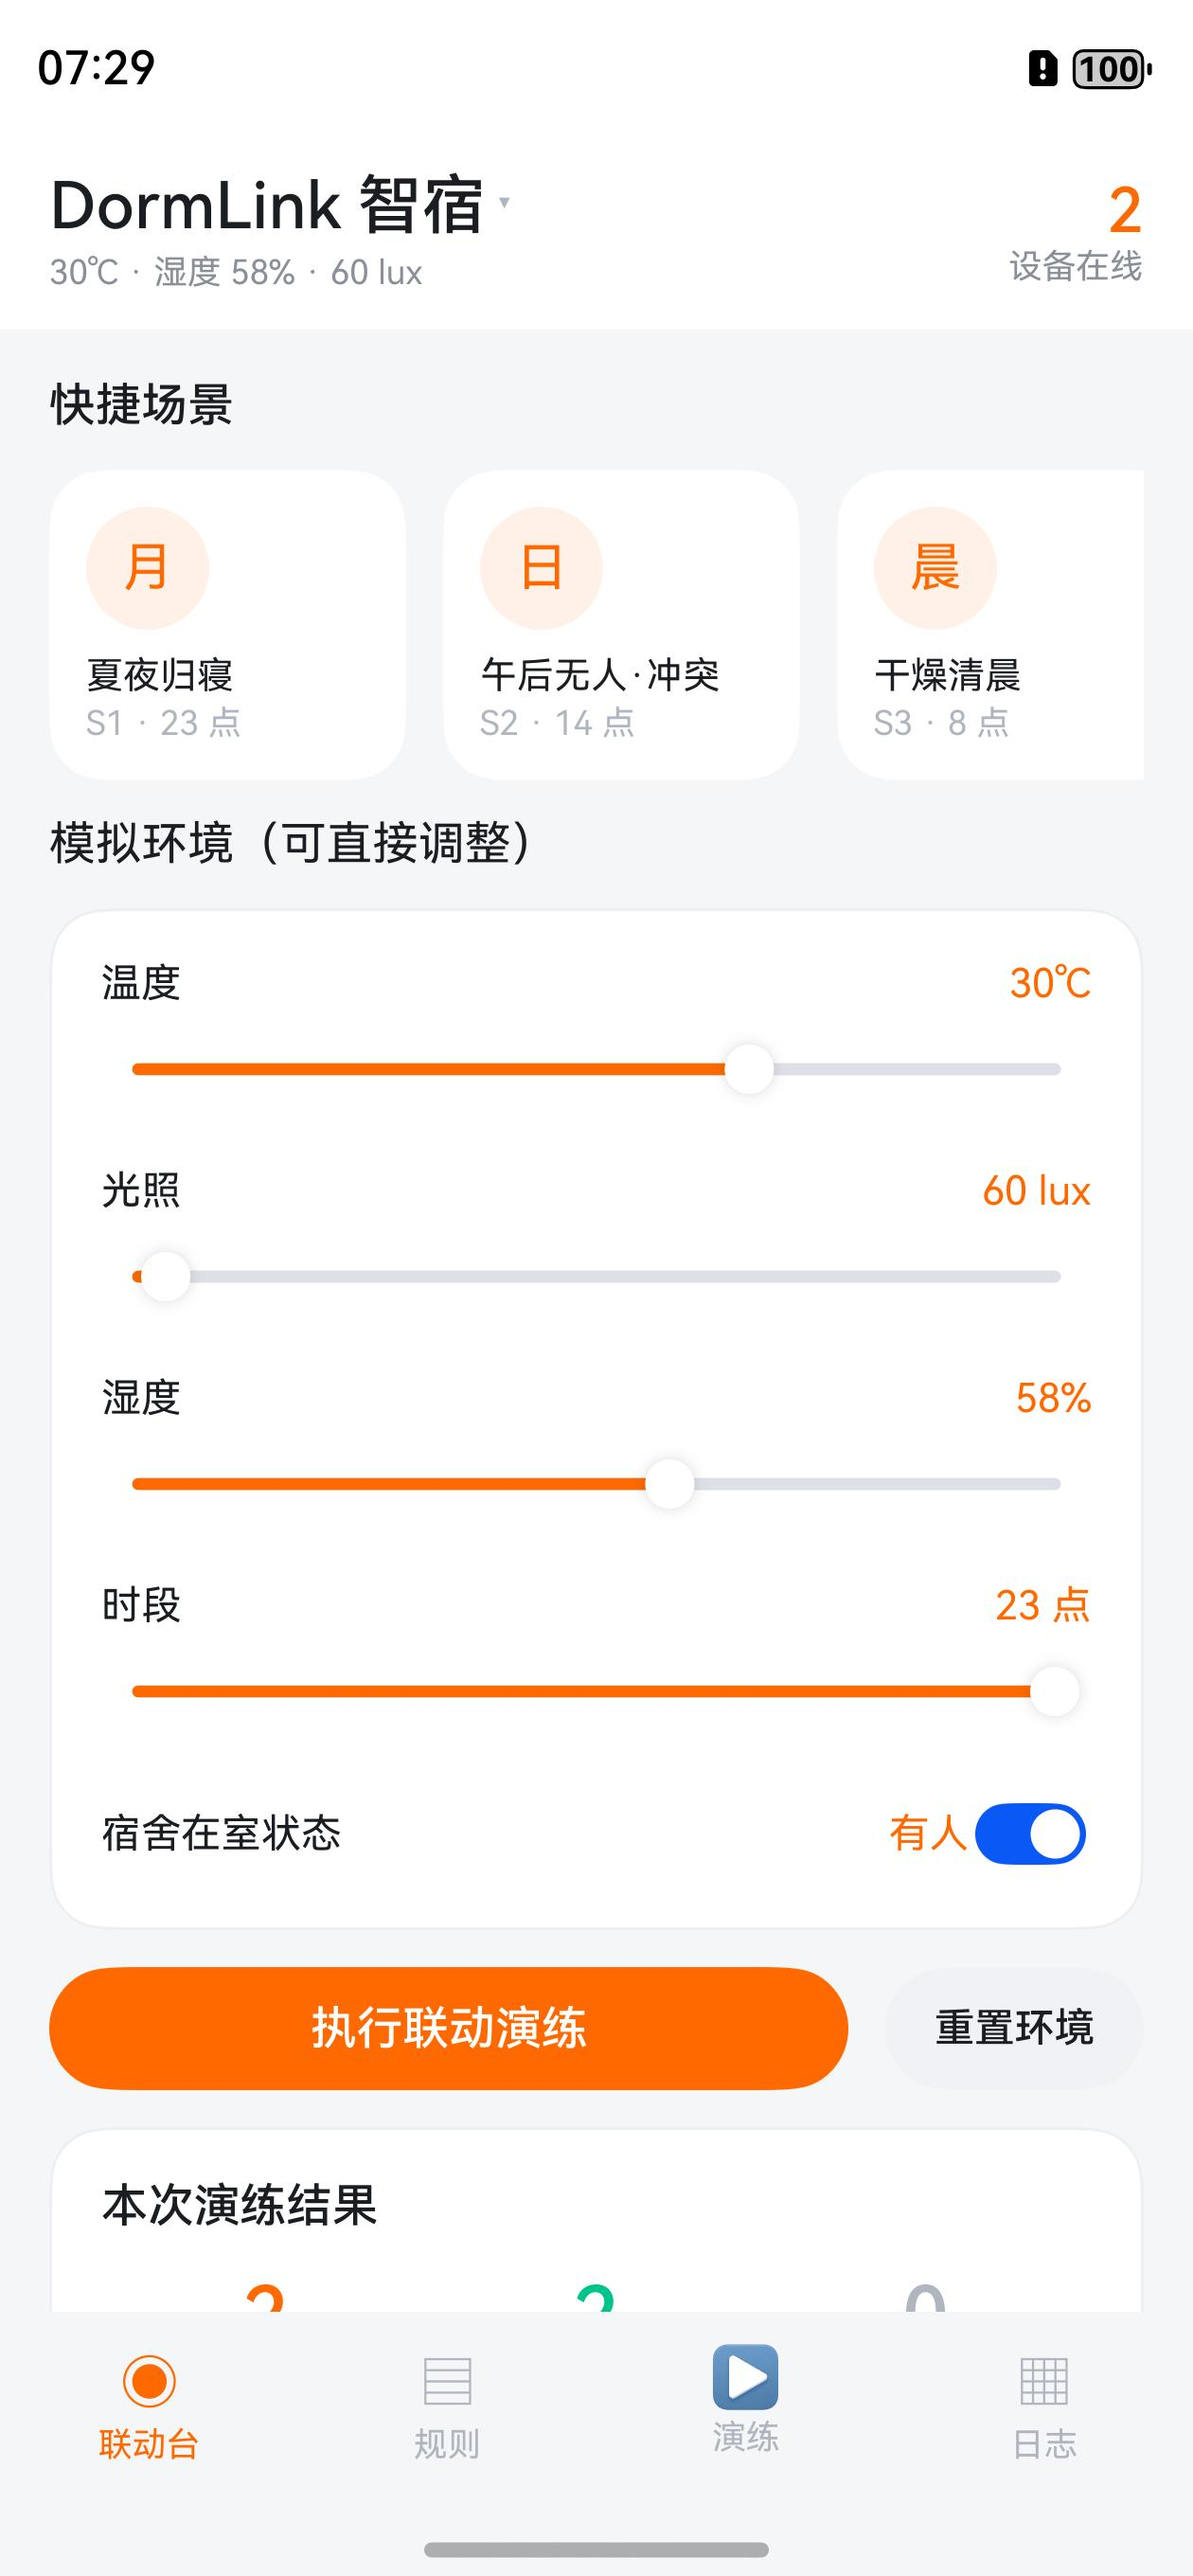
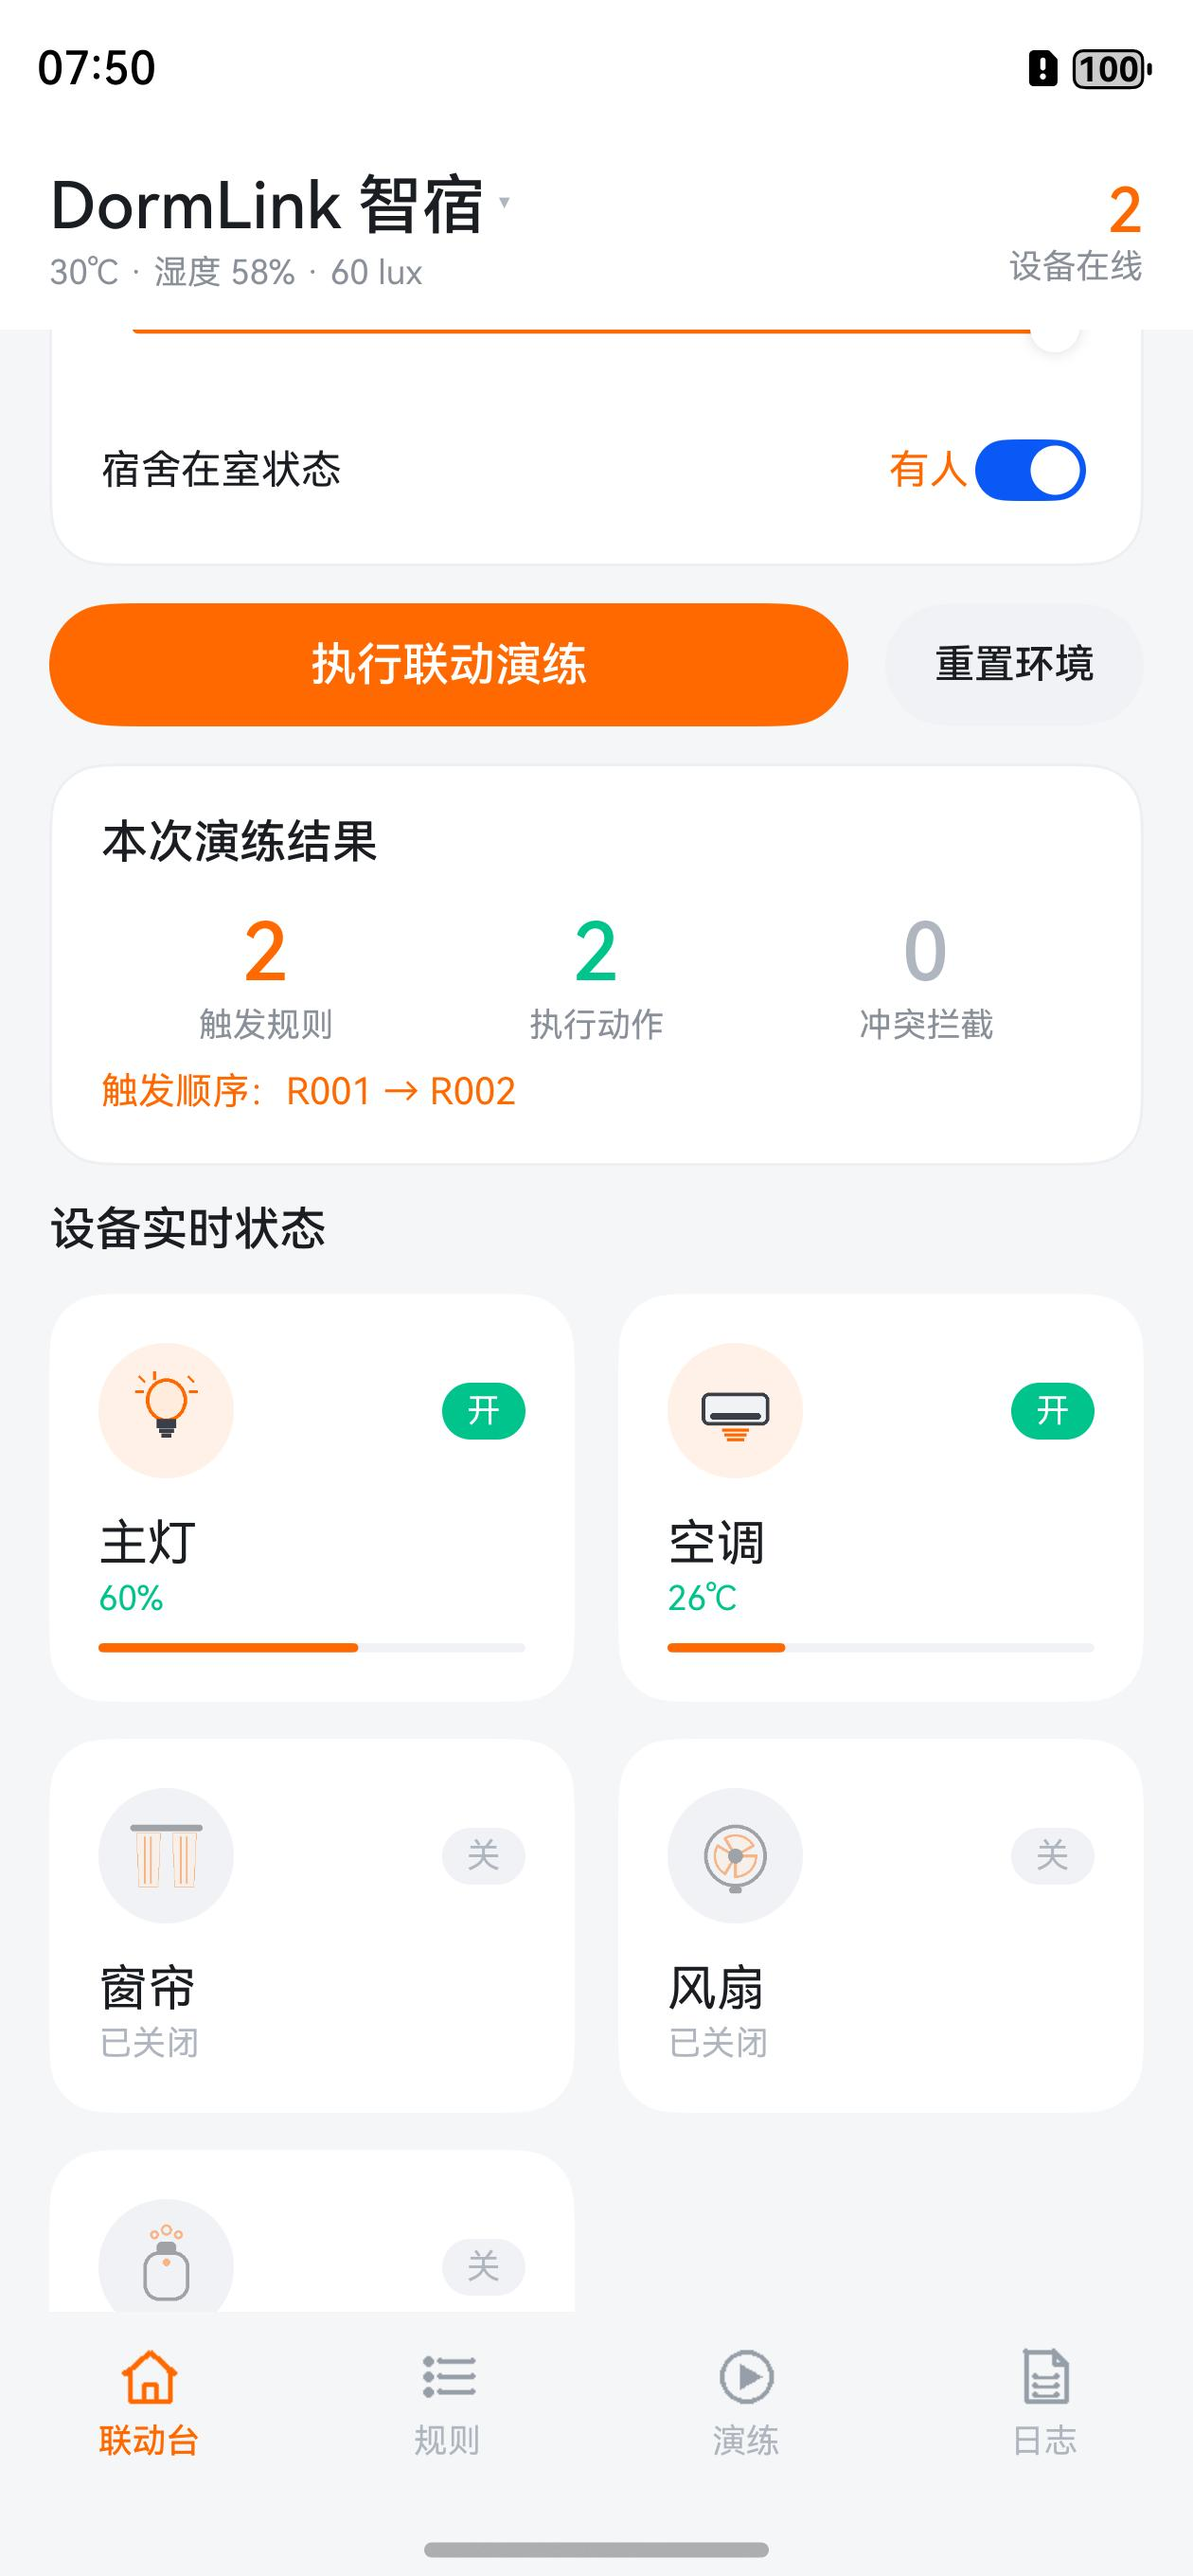
feat: 底部 TabBar 重构为线性图标 + 选中态

diff --git a/docs/设计规范.md b/docs/设计规范.md
@@ -181,6 +181,14 @@
 - 数据联动：修改开关或数值立即写入 `this.devices` 并持久化，返回首页后设备卡与"设备在线"数同步刷新。
 - 定时为真实 `setTimeout` 实现，切换选项会先 `clearTimeout` 取消上一个定时。
 
+### 6.2.5 底部 TabBar
+
+- 高度 58，白底（`surfaceHigh`），顶部 1px 分隔线（`border`），`barMode: Fixed`。
+- 每项：24px 线性图标（上）+ 文字 `caption`（下，间距 3）。
+- **选中态**：橙色图标（`tab_*_on`）+ 橙色文字 + `Medium` 字重；未选中：灰色图标（`tab_*_off`，`#969EA8`）+ 灰色文字 + `Regular`。
+- 图标为成对资源：`tab_home` / `tab_rule` / `tab_scene` / `tab_log` 各有 `_on`、`_off` 两张 PNG（48×48，线宽 3，圆头端点），由 `tools/gen_device_icons.py` 一并生成。
+- 不使用字符符号（◉▤▶▦）做图标——不同字体下粗细和基线不一致。
+
 ### 6.3 状态标签（Tag）
 
 - 圆角 pill，内边距 3/10，字号 `label`。
